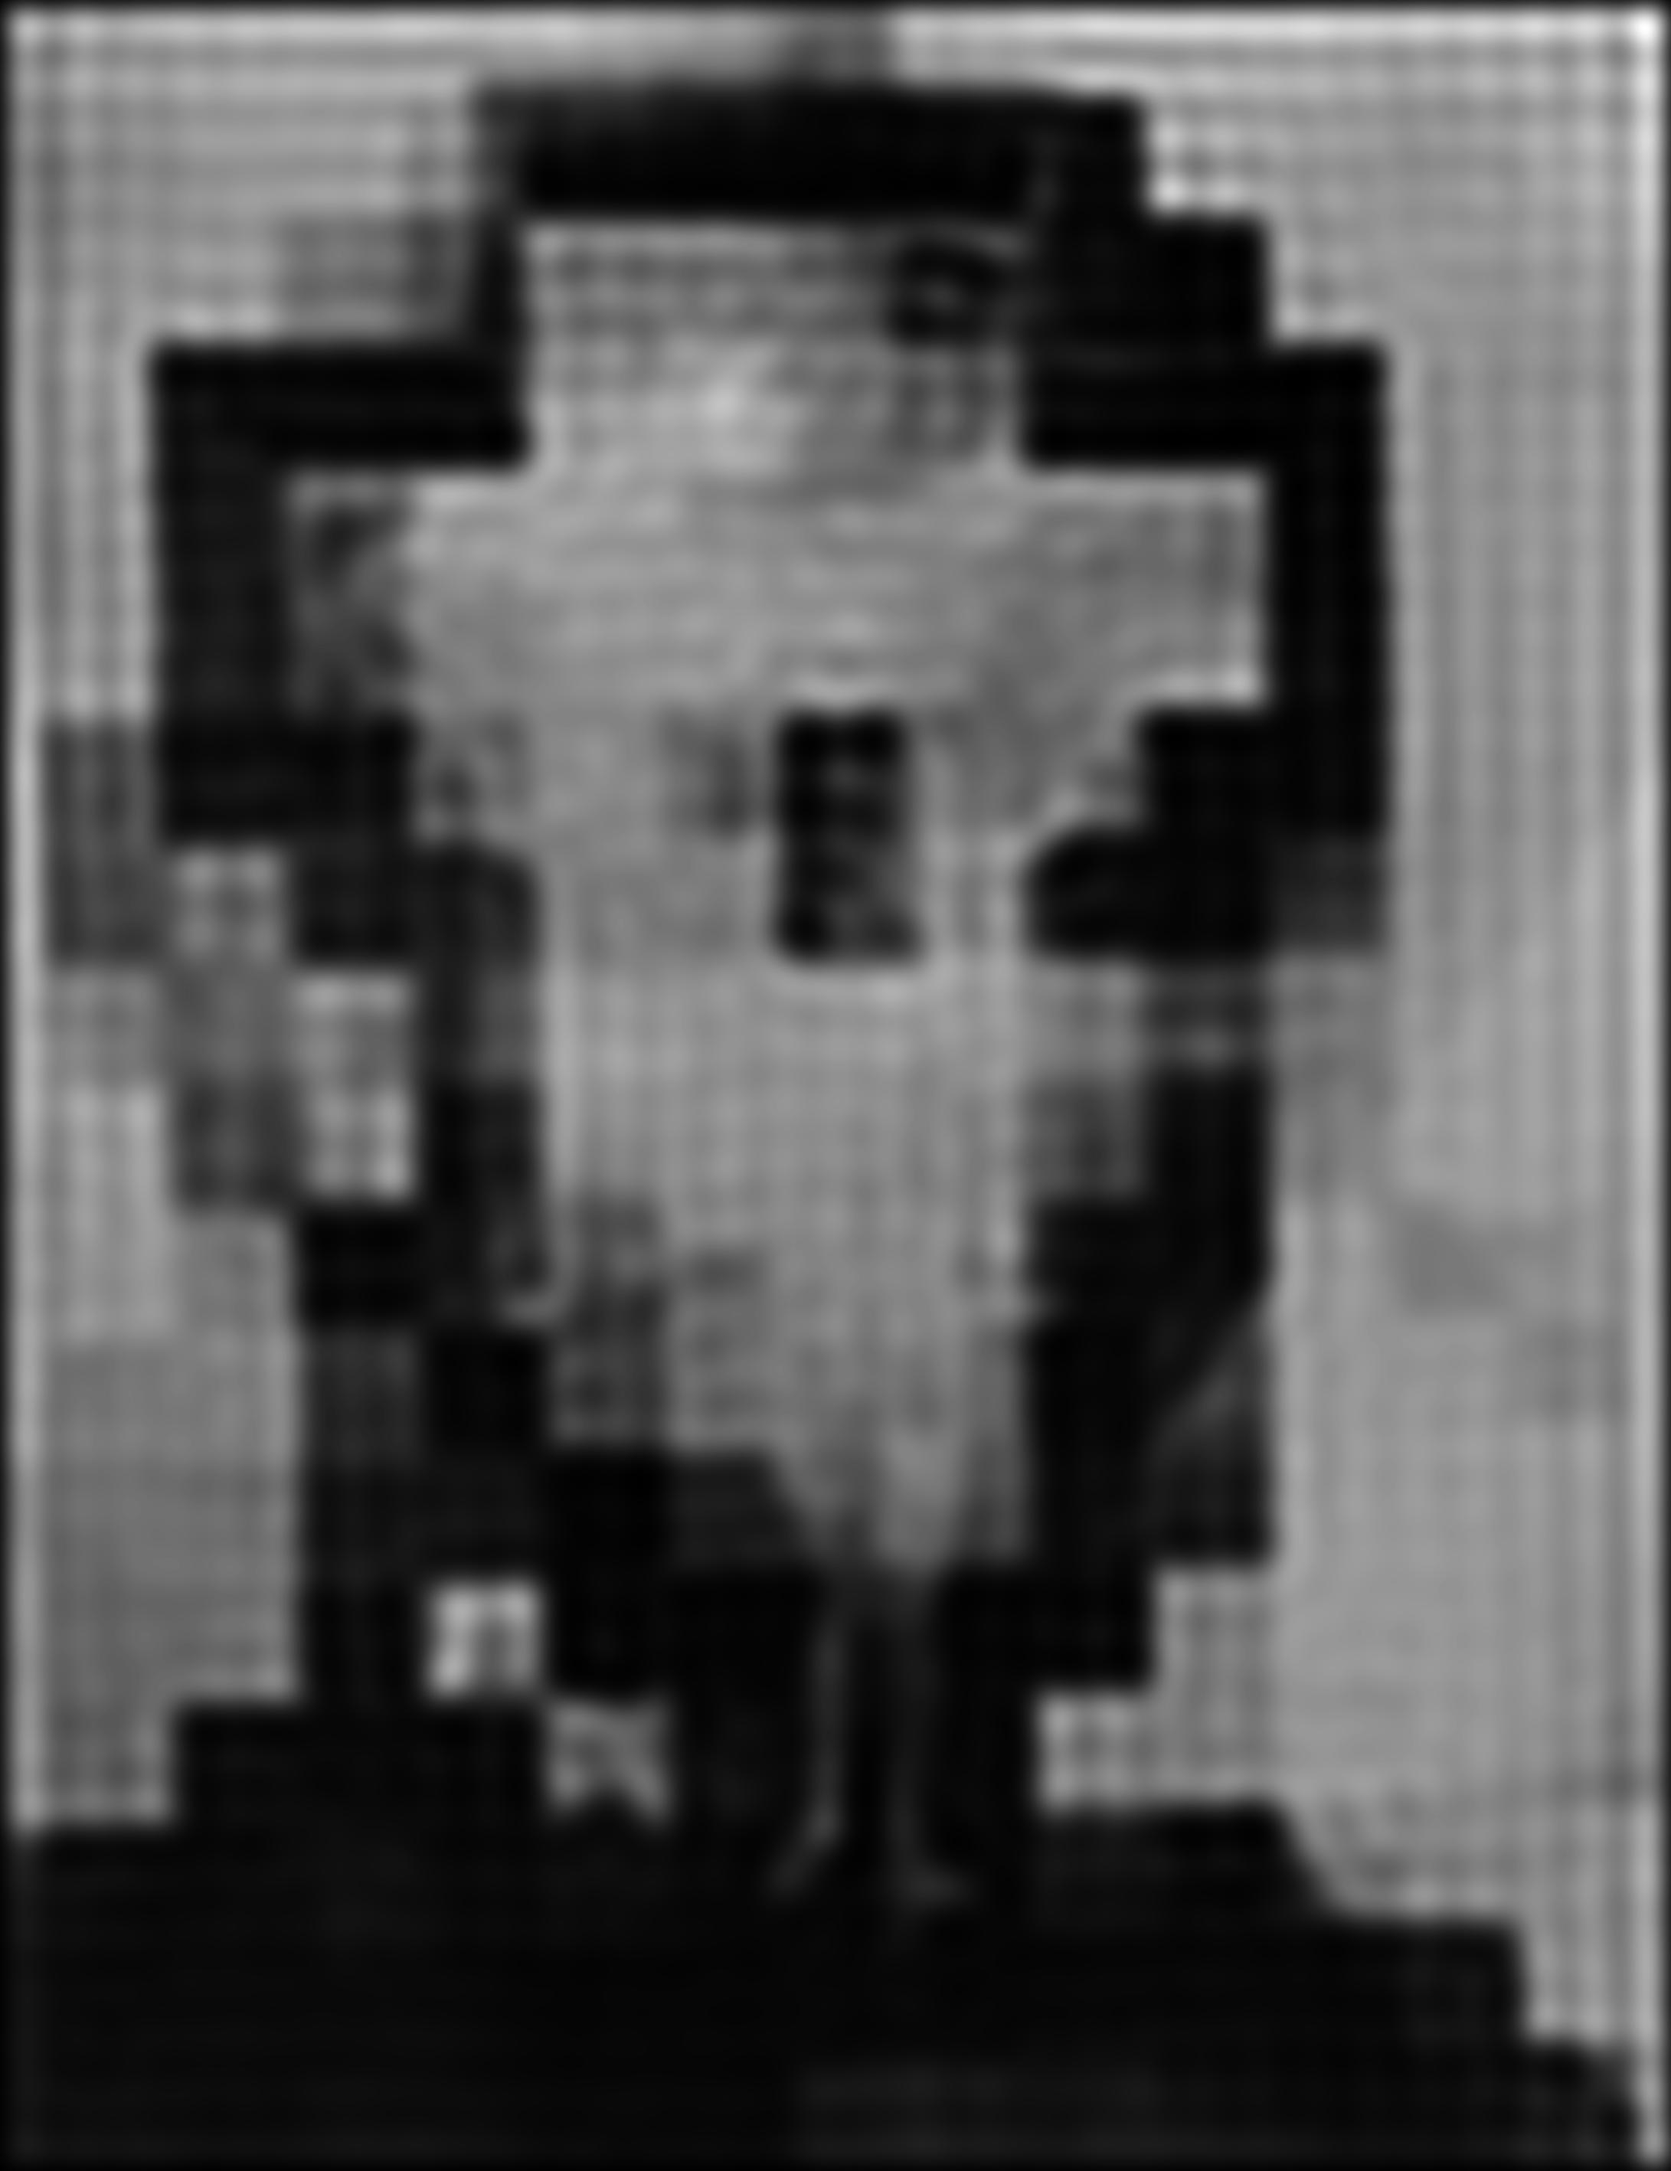
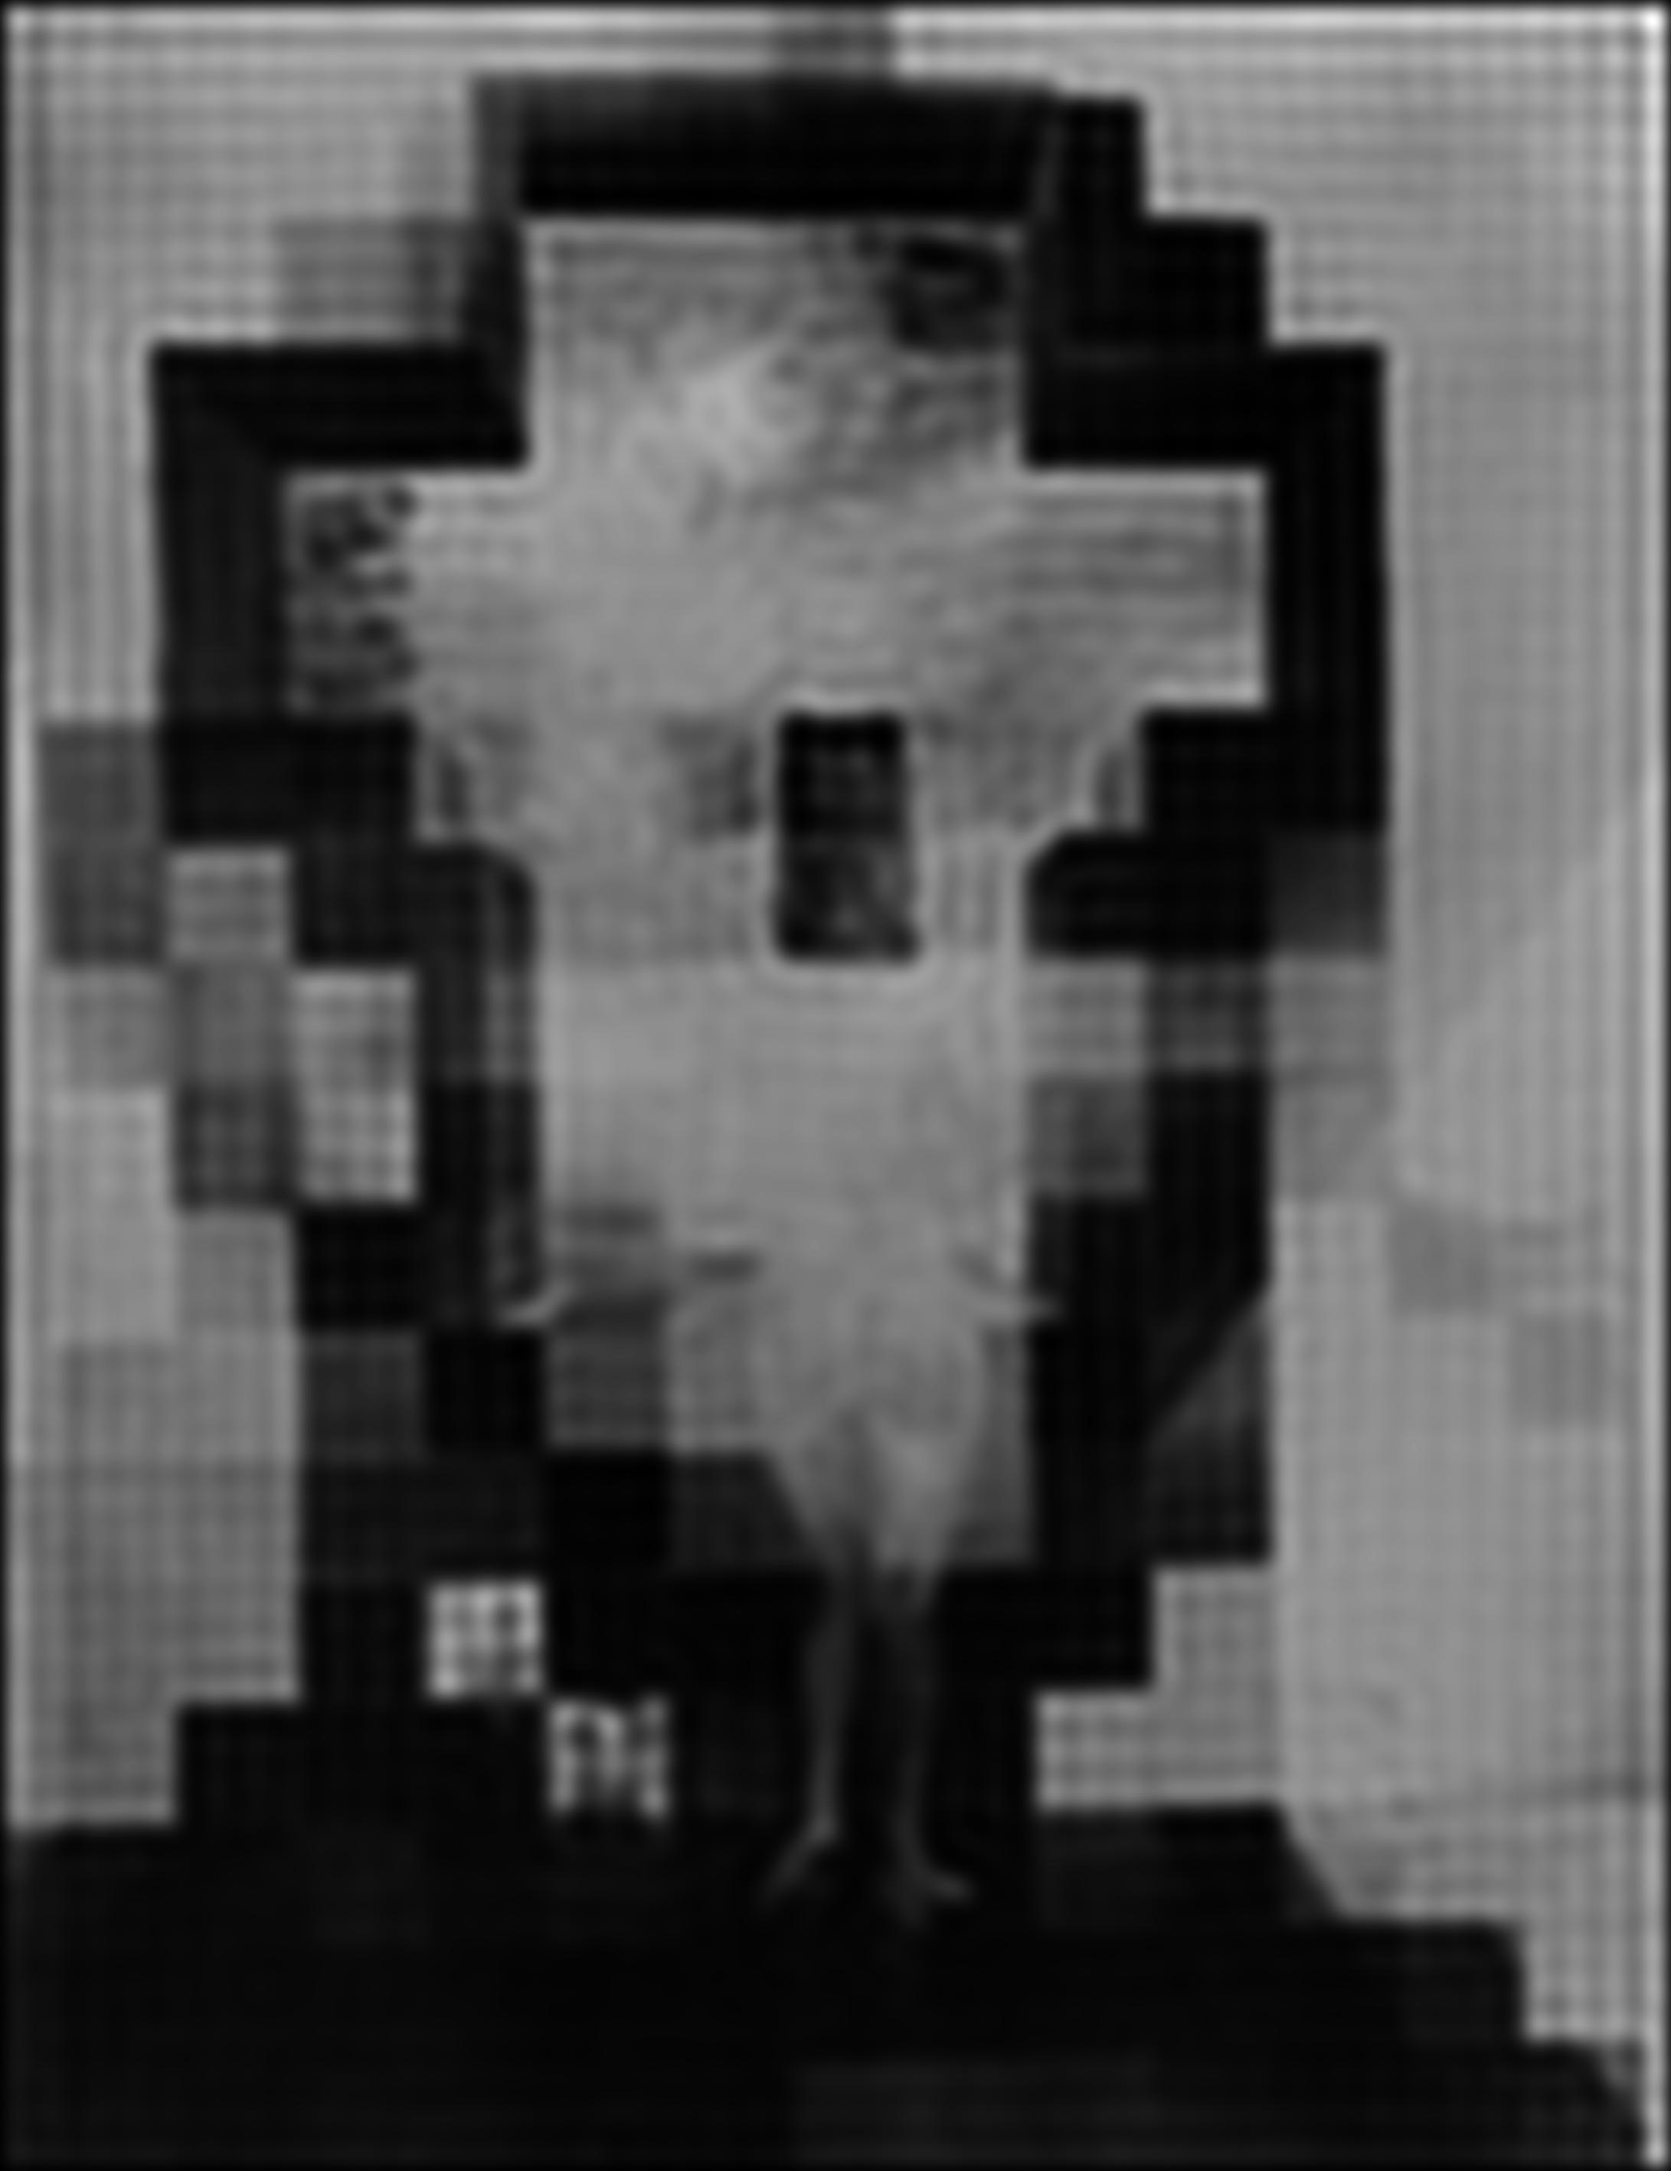
1

diff --git a/Punto 1.py b/Punto 1.py
@@ -22,7 +22,7 @@ def Pupila(w_l, dx0, N,Prop):
     """
     
     f=1/((1/15e3) -(1/Prop))
-    na=(1e3)/np.sqrt(f**2 +(1e-3)**2)
+    na=(1e3)/np.sqrt(f**2 +(1e3)**2)
     dx0=w_l*Prop/(dx0*N)
     dy0=dx0
     N=N
@@ -31,7 +31,7 @@ def Pupila(w_l, dx0, N,Prop):
     x,y=np.meshgrid(x,y)
     x=x*dx0
     y=y*dy0
-    lim=1000*na     
+    lim=2000*na     
 
     U_matrix=(x)**2 + (y)**2
     U_matrix[np.where(np.abs(U_matrix)<=lim)]=1
@@ -75,7 +75,7 @@ def Form(Image,ld,dx0,Prop):
 image=cv2.imread("gala-desnuda-mirando.jpg",0)
 
 dx=24e4
-Prop=1e6*np.array([200])
+Prop=1e6*np.array([1,100,200,300,500])
 
 for i in Prop:
     Form(image,0.700,dx,i)
